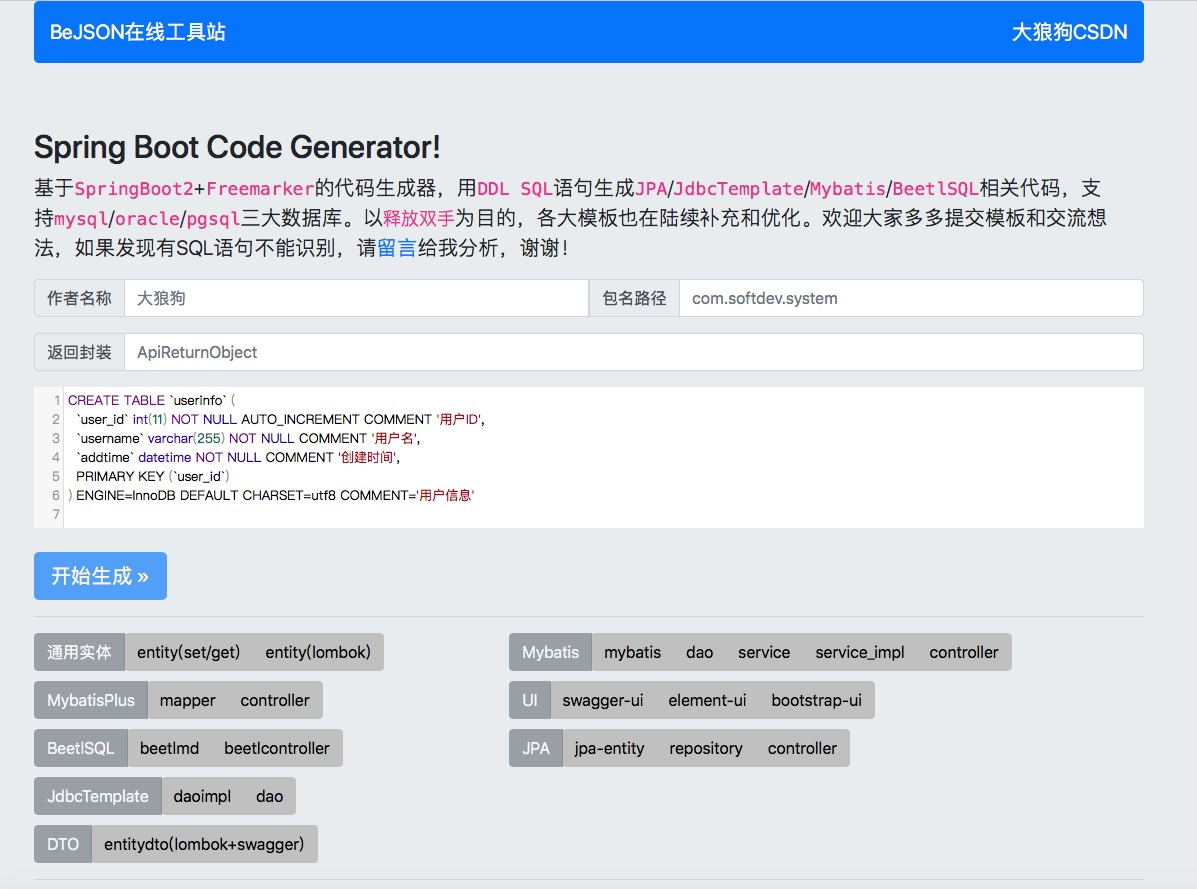
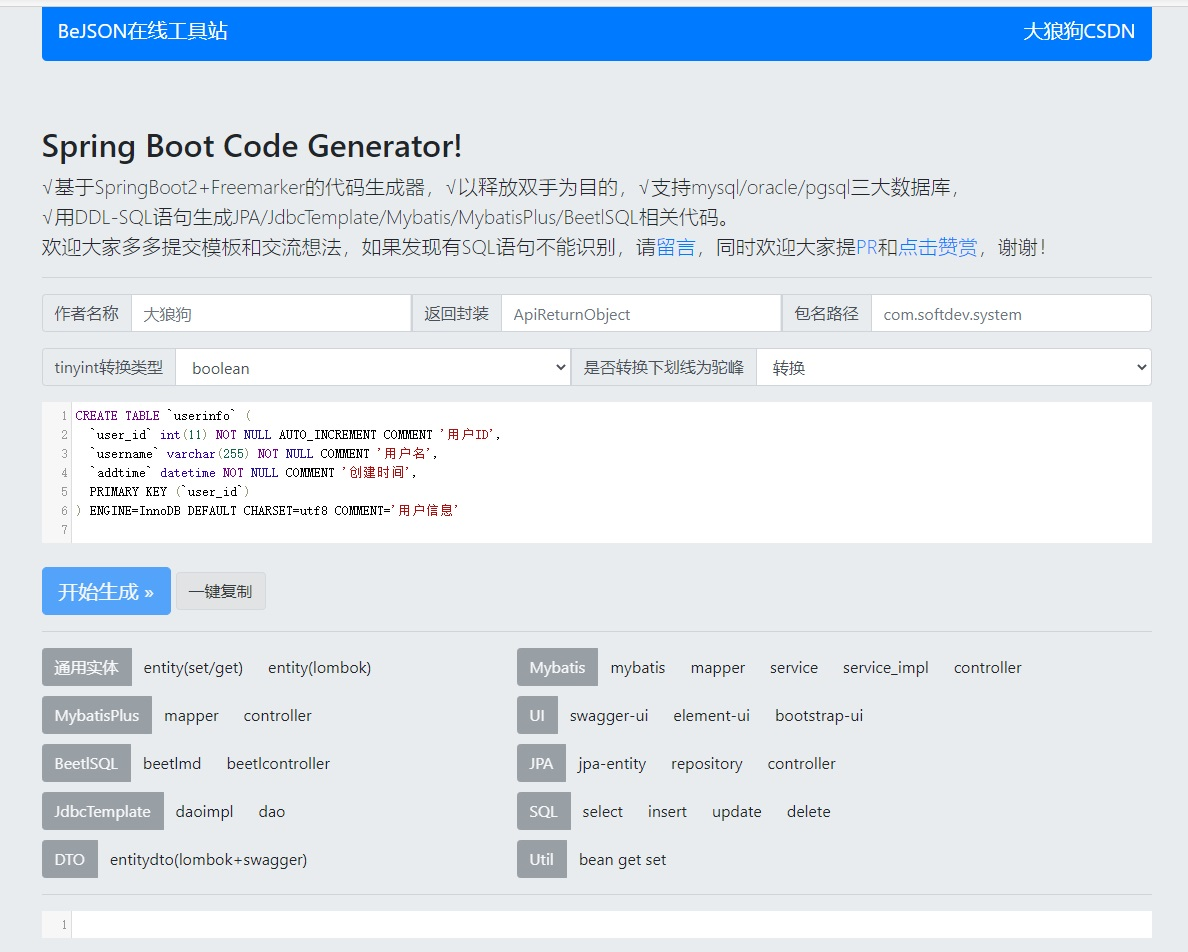
1.添加tinyint类型转换(感谢@lixiliang&@liujiansgit的Suggestion) 2.添加一键复制功能(感谢@gaohanghang的Suggestion) 3.Mybatis的insert增加keyProperty="id"用于返回自增id(感谢@88888888888888888888的Suggestion) 4.优化date类型的支持(感谢@SteveLsf的反馈) 5.其他一些优化.

Changed region(s): [[0.0, 0.1215, 0.9343, 0.9719], [0.4049, 0.6682, 0.8721, 0.9415], [0.0, 0.0, 0.9966, 0.0911]]

diff --git a/generator-web/src/main/java/com/softdev/system/generator/util/TableParseUtil.java b/generator-web/src/main/java/com/softdev/system/generator/util/TableParseUtil.java
@@ -24,7 +24,8 @@ public class TableParseUtil {
      * @param tableSql
      * @return
      */
-    public static ClassInfo processTableIntoClassInfo(String tableSql, boolean isUnderLineToCamelCase) throws IOException {
+    public static ClassInfo processTableIntoClassInfo(String tableSql, boolean isUnderLineToCamelCase,String tinyintTransType)
+            throws IOException {
         if (tableSql==null || tableSql.trim().length()==0) {
             throw new CodeGenerateException("Table structure can not be empty.");
         }
@@ -41,7 +42,9 @@ public class TableParseUtil {
         }
 
         //新增处理create table if not exists members情况
-        if (tableName.contains("if not exists")) tableName=tableName.replaceAll("if not exists","");
+        if (tableName.contains("if not exists")) {
+            tableName=tableName.replaceAll("if not exists","");
+        }
 
         if (tableName.contains("`")) {
             tableName = tableName.substring(tableName.indexOf("`")+1, tableName.lastIndexOf("`"));
@@ -101,20 +104,22 @@ public class TableParseUtil {
         String fieldListTmp = tableSql.substring(tableSql.indexOf("(")+1, tableSql.lastIndexOf(")"));
 
         // 匹配 comment，替换备注里的小逗号, 防止不小心被当成切割符号切割
-        Matcher matcher = Pattern.compile("comment `(.*?)\\`").matcher(fieldListTmp);     // "\\{(.*?)\\}"
-        while(matcher.find()){
+        String commentPattenStr1="comment `(.*?)\\`";
+        Matcher matcher1 = Pattern.compile(commentPattenStr1).matcher(fieldListTmp);
+        while(matcher1.find()){
 
-            String commentTmp = matcher.group();
+            String commentTmp = matcher1.group();
             //2018-9-27 zhengk 不替换，只处理，支持COMMENT评论里面多种注释
             //commentTmp = commentTmp.replaceAll("\\ comment `|\\`", " ");      // "\\{|\\}"
 
             if (commentTmp.contains(",")) {
                 String commentTmpFinal = commentTmp.replaceAll(",", "，");
-                fieldListTmp = fieldListTmp.replace(matcher.group(), commentTmpFinal);
+                fieldListTmp = fieldListTmp.replace(matcher1.group(), commentTmpFinal);
             }
         }
         //2018-10-18 zhengkai 新增支持double(10, 2)等类型中有英文逗号的特殊情况
-        Matcher matcher2 = Pattern.compile("\\`(.*?)\\`").matcher(fieldListTmp);     // "\\{(.*?)\\}"
+        String commentPattenStr2="\\`(.*?)\\`";
+        Matcher matcher2 = Pattern.compile(commentPattenStr2).matcher(fieldListTmp);
         while(matcher2.find()){
             String commentTmp2 = matcher2.group();
             if (commentTmp2.contains(",")) {
@@ -123,7 +128,8 @@ public class TableParseUtil {
             }
         }
         //2018-10-18 zhengkai 新增支持double(10, 2)等类型中有英文逗号的特殊情况
-        Matcher matcher3 = Pattern.compile("\\((.*?)\\)").matcher(fieldListTmp);     // "\\{(.*?)\\}"
+        String commentPattenStr3="\\((.*?)\\)";
+        Matcher matcher3 = Pattern.compile(commentPattenStr3).matcher(fieldListTmp);
         while(matcher3.find()){
             String commentTmp3 = matcher3.group();
             if (commentTmp3.contains(",")) {
@@ -148,7 +154,6 @@ public class TableParseUtil {
                         &&!columnLine.contains("pctincrease")
                         &&!columnLine.contains("buffer_pool")&&!columnLine.contains("tablespace")
                         &&!(columnLine.contains("primary")&&i>3));
-
                 if (specialFlag){
                     //如果是oracle的number(x,x)，可能出现最后分割残留的,x)，这里做排除处理
                     if(columnLine.length()<5) {continue;}
@@ -157,9 +162,8 @@ public class TableParseUtil {
                     columnLine=columnLine.replaceAll("`"," ").replaceAll("\""," ").replaceAll("'","").replaceAll("  "," ").trim();
                     //如果遇到username varchar(65) default '' not null,这种情况，判断第一个空格是否比第一个引号前
                     columnName = columnLine.substring(0, columnLine.indexOf(" "));
-
                     // field Name
-//                    2019-09-08 yj 添加是否下划线转换为驼峰的判断
+                    // 2019-09-08 yj 添加是否下划线转换为驼峰的判断
                     String fieldName;
                     if(isUnderLineToCamelCase){
                         fieldName = StringUtils.lowerCaseFirst(StringUtils.underlineToCamelCase(columnName));
@@ -184,7 +188,7 @@ public class TableParseUtil {
                         fieldClass = Float.class.getSimpleName();
                     } else if (columnLine.contains("double")) {
                         fieldClass = Double.class.getSimpleName();
-                    } else if (columnLine.contains("datetime") || columnLine.contains("timestamp")) {
+                    } else if (columnLine.contains("time") || columnLine.contains("date") || columnLine.contains("datetime") || columnLine.contains("timestamp")) {
                         fieldClass = Date.class.getSimpleName();
                     } else if (columnLine.contains("varchar") || columnLine.contains(" text")|| columnLine.contains("char")
                             || columnLine.contains("clob")||columnLine.contains("blob")||columnLine.contains("json")) {
@@ -221,9 +225,12 @@ public class TableParseUtil {
                         }else{
                             fieldClass = BigDecimal.class.getSimpleName();
                         }
-                    } else if (columnLine.contains("boolean")|| columnLine.contains("tinyint") ) {
+                    } else if (columnLine.contains("boolean")) {
                         //20190910 MOSHOW.K.ZHENG 新增对boolean的处理（感谢@violinxsc的反馈）以及修复tinyint类型字段无法生成boolean类型问题（感谢@hahaYhui的反馈）
                         fieldClass = Boolean.class.getSimpleName();
+                    } else if (columnLine.contains("tinyint") ) {
+                        //20191115 MOSHOW.K.ZHENG 支持对tinyint的特殊处理
+                        fieldClass=tinyintTransType;
                     } else {
                         fieldClass = String.class.getSimpleName();
                     }

diff --git a/generator-web/src/main/java/com/softdev/system/generator/controller/IndexController.java b/generator-web/src/main/java/com/softdev/system/generator/controller/IndexController.java
@@ -2,8 +2,8 @@ package com.softdev.system.generator.controller;
 
 import com.softdev.system.generator.entity.ClassInfo;
 import com.softdev.system.generator.entity.ReturnT;
-import com.softdev.system.generator.util.CodeGeneratorTool;
 import com.softdev.system.generator.util.FreemarkerTool;
+import com.softdev.system.generator.util.TableParseUtil;
 import freemarker.template.TemplateException;
 import lombok.extern.slf4j.Slf4j;
 import org.apache.commons.lang3.StringUtils;
@@ -40,8 +40,9 @@ public class IndexController {
                                                      @RequestParam(required = false, defaultValue = "大狼狗") String authorName,
                                                      @RequestParam(required = false, defaultValue = "com.softdev.system")String packageName,
                                                      @RequestParam(required = false, defaultValue = "ApiReturnUtil")String returnUtil,
-                                                     @RequestParam(required = false, defaultValue = "true")boolean isUnderLineToCamelCase
-    ) {
+                                                     @RequestParam(required = false, defaultValue = "true")boolean isUnderLineToCamelCase,
+                                                     @RequestParam(required = false, defaultValue = "boolean")String tinyintTransType
+                                                     ) {
 
 
         try {
@@ -51,17 +52,17 @@ public class IndexController {
             }
 
             // parse table
-            ClassInfo classInfo = CodeGeneratorTool.processTableIntoClassInfo(tableSql, isUnderLineToCamelCase);
+            ClassInfo classInfo = TableParseUtil.processTableIntoClassInfo(tableSql, isUnderLineToCamelCase, tinyintTransType);
 
             // code genarete
-            Map<String, Object> params = new HashMap<String, Object>();
+            Map<String, Object> params = new HashMap<String, Object>(8);
             params.put("classInfo", classInfo);
             params.put("authorName", authorName);
             params.put("packageName", packageName);
             params.put("returnUtil", returnUtil);
 
             // result
-            Map<String, String> result = new HashMap<String, String>();
+            Map<String, String> result = new HashMap<String, String>(32);
 
             //UI
             result.put("swagger-ui", freemarkerTool.processString("code-generator/ui/swagger-ui.ftl", params));

diff --git a/generator-web/src/main/java/com/softdev/system/generator/util/FreemarkerUtil.java b/generator-web/src/main/java/com/softdev/system/generator/util/FreemarkerUtil.java
@@ -4,8 +4,7 @@ import freemarker.template.Configuration;
 import freemarker.template.Template;
 import freemarker.template.TemplateException;
 import freemarker.template.TemplateExceptionHandler;
-import org.slf4j.Logger;
-import org.slf4j.LoggerFactory;
+import lombok.extern.slf4j.Slf4j;
 
 import java.io.File;
 import java.io.IOException;
@@ -18,8 +17,8 @@ import java.util.Map;
  *
  * @author xuxueli 2018-05-02 19:56:00
  */
+@Slf4j
 public class FreemarkerUtil {
-    private static final Logger logger = LoggerFactory.getLogger(CodeGeneratorTool.class);
 
     /**
      * freemarker config
@@ -40,7 +39,7 @@ public class FreemarkerUtil {
             freemarkerConfig.setLocale(Locale.CHINA);
             freemarkerConfig.setTemplateExceptionHandler(TemplateExceptionHandler.RETHROW_HANDLER);
         } catch (IOException e) {
-            logger.error(e.getMessage(), e);
+            log.error(e.getMessage(), e);
         }
     }
 

diff --git a/README.md b/README.md
@@ -6,36 +6,37 @@
 
 SpringBootCodeGenerator
 ----
-基于SpringBoot2+Freemarker的代码生成器，用DDL SQL语句生成JPA/JdbcTemplate/Mybatis/BeetlSQL相关代码，支持mysql/oracle/pgsql等三大数据库。以释放双手为目的，各大模板也在陆续补充和优化。欢迎大家Issue提交模板和交流想法，也欢迎提交PullRequest！
-<br><br>
+√基于SpringBoot2+Freemarker的代码生成器，√以释放双手为目的，√支持mysql/oracle/pgsql三大数据库，<br>
+√用DDL-SQL语句生成JPA/JdbcTemplate/Mybatis/MybatisPlus/BeetlSQL相关代码。<br><br>
 另外，感谢bejson三叔将他部署在 http://java.bejson.com/generator 上，目前是besjon专供工具(线上版本不一定是最新的，会有延迟，请谅解，谢谢)。
 <br><br>
 <table><tbody>
 <tr><td>访问路径</td> <td>http://127.0.0.1:1234/generator</td></tr>
 <tr><td>在线地址</td> <td>http://java.bejson.com/generator</td></tr>
-<tr><td>CSDN博客</td> <td>http://blog.csdn.net/moshowgame</td></tr>
+<tr><td>CSDN博客</td> <td>http://zhengkai.blog.csdn.net</td></tr>
 <tr><td></td> <td></td></tr>
 <tr><td>更新日期</td> <td>更新内容</td></tr>
+<tr><td>20191115<td>1.添加tinyint类型转换(感谢@lixiliang&@liujiansgit的Suggestion) 2.添加一键复制功能(感谢@gaohanghang的Suggestion) 3.Mybatis的insert增加keyProperty="id"用于返回自增id(感谢@88888888888888888888的Suggestion) 4.优化date类型的支持(感谢@SteveLsf的反馈) 5.其他一些优化. </td></tr> 
 <tr><td>20191015<td>修复jdbcTemplates中insert语句第一个字段丢失的问题。 </td></tr>   
-<tr><td>20190915<td>1.添加对象getset模板 2.添加sql模板 3.启动类添加日志输出，方便项目使用（感谢@gaohanghang 的pull request） </td></tr>   
+<tr><td>20190915<td>1.添加对象getset模板 2.添加sql模板 3.启动类添加日志输出，方便项目使用(感谢@gaohanghang 的pull request) </td></tr>   
 <tr><td>20190910-2<td>优化以及更新Maven依赖，减少打包体积。 </td></tr>   
-<tr><td>20190910-1<td>1.修复mapper接口load方法，但是xml中方法不匹配问题 2.移除mapper中CRUD时的@param 注解，会影响xml的解析（感谢@caojiantao的反馈）。3.优化MyBatis的xml文件对Oracle的支持。（感谢@wylove1992的反馈） 4.新增对boolean的处理（感谢@violinxsc的反馈）以及优化tinyint类型生成boolean类型问题（感谢@hahaYhui的反馈） </td></tr>   
-<tr><td>20190909<td>添加是否下划线转换为驼峰的选择（感谢@youngking28 的pull request）。</td></tr>   
-<tr><td>20190518<td>1.优化注释 2.修改 mybatis模板中 controller注解 3.修改 mybatis模板中 dao文件使用为 mapper文件 4.修改 mybatis模板中 service实现类中的一个 bug 5.修改 index.ftl文件中 mybatis模板的 dao -> mapper（感谢@unqin的pull request）</td></tr>
-<tr><td>20190511<td>优化mybatis模块的dao和xml模板，修改dao接口注解为@Repository，所有dao参数改为包装类，删除update语句最后的UpdateTime = NOW()，修改dao接口文件的方法注释使其更符合javaDoc的标准，修改insert语句增加插入行主键的返回，修改load的方法名为selectByPrimaryKey，修改xml的update语句新增动态if判空，修改xml的insert语句新增动态插入判空，更符合mybatisGenerator标准（感谢@Archer-Wen的贡献 ）。</td></tr>
-<tr><td>20190429<td>新增返回封装工具类设置，优化对oracle注释comment on column的支持（感谢@liukex反馈），优化对普通和特殊storage关键字的判断（感谢@AhHeadFloating的反馈 ）。</td></tr>
-<tr><td>20190211<td>提交gitignore，解决StringUtils.lowerCaseFirst潜在的NPE异常，校验修改为@RequestParam参数校验，lombok之@Data和@Slf4j优化，fix JdbcDAO模板类名显示为中文问题，WebMvcConfig整合MessageConverter，模板代码分类（感谢@liutf和@tfgzs的pull request）。</td></tr>
-<tr><td>20190210<td>实体生成规则切换为包装类型，不再采用基本数据类型，为实体类生成添加显示的默认构造方法（感谢@h2so的pull request）。</td></tr>
-<tr><td>20190106<td>修复处理number/decimal(x,x)类型的逻辑（感谢@arthaschan的反馈），修复JdbcTemplates模板两处错误（感谢@everflourish的反馈）。</td></tr>
-<tr><td>20181212<td>首页UI优化，新增MybatisPlus模块（感谢@三叔同事的建议），修复作者名和包名获取失败问题（感谢@Yanch1994的反馈）。</td></tr>
-<tr><td>20181122<td>优化正则表达式点号的处理，优化处理字段类型，对number类型增加int，long，BigDecimal的区分判断（感谢@lshz0088的指导）。</td></tr>
-<tr><td>20181108<td>修复非字段描述"KEY FK_xxxx (xxxx)"导致生成KEY字段情况（感谢@tornadoorz反馈）。</td></tr>
-<tr><td>20181018<td>支持double(x,x)的类型，以及comment里面包含一些特殊字符的处理（感谢@tanwubo的反馈）。</td></tr>
+<tr><td>20190910-1<td>1.修复mapper接口load方法，但是xml中方法不匹配问题 2.移除mapper中CRUD时的@param 注解，会影响xml的解析(感谢@caojiantao的反馈)。3.优化MyBatis的xml文件对Oracle的支持。(感谢@wylove1992的反馈) 4.新增对boolean的处理(感谢@violinxsc的反馈)以及优化tinyint类型生成boolean类型问题(感谢@hahaYhui的反馈) </td></tr>   
+<tr><td>20190909<td>添加是否下划线转换为驼峰的选择(感谢@youngking28 的pull request)。</td></tr>   
+<tr><td>20190518<td>1.优化注释 2.修改 mybatis模板中 controller注解 3.修改 mybatis模板中 dao文件使用为 mapper文件 4.修改 mybatis模板中 service实现类中的一个 bug 5.修改 index.ftl文件中 mybatis模板的 dao -> mapper(感谢@unqin的pull request)</td></tr>
+<tr><td>20190511<td>优化mybatis模块的dao和xml模板，修改dao接口注解为@Repository，所有dao参数改为包装类，删除update语句最后的UpdateTime = NOW()，修改dao接口文件的方法注释使其更符合javaDoc的标准，修改insert语句增加插入行主键的返回，修改load的方法名为selectByPrimaryKey，修改xml的update语句新增动态if判空，修改xml的insert语句新增动态插入判空，更符合mybatisGenerator标准(感谢@Archer-Wen的贡献 )。</td></tr>
+<tr><td>20190429<td>新增返回封装工具类设置，优化对oracle注释comment on column的支持(感谢@liukex反馈)，优化对普通和特殊storage关键字的判断(感谢@AhHeadFloating的反馈 )。</td></tr>
+<tr><td>20190211<td>提交gitignore，解决StringUtils.lowerCaseFirst潜在的NPE异常，校验修改为@RequestParam参数校验，lombok之@Data和@Slf4j优化，fix JdbcDAO模板类名显示为中文问题，WebMvcConfig整合MessageConverter，模板代码分类(感谢@liutf和@tfgzs的pull request)。</td></tr>
+<tr><td>20190210<td>实体生成规则切换为包装类型，不再采用基本数据类型，为实体类生成添加显示的默认构造方法(感谢@h2so的pull request)。</td></tr>
+<tr><td>20190106<td>修复处理number/decimal(x,x)类型的逻辑(感谢@arthaschan的反馈)，修复JdbcTemplates模板两处错误(感谢@everflourish的反馈)。</td></tr>
+<tr><td>20181212<td>首页UI优化，新增MybatisPlus模块(感谢@三叔同事的建议)，修复作者名和包名获取失败问题(感谢@Yanch1994的反馈)。</td></tr>
+<tr><td>20181122<td>优化正则表达式点号的处理，优化处理字段类型，对number类型增加int，long，BigDecimal的区分判断(感谢@lshz0088的指导)。</td></tr>
+<tr><td>20181108<td>修复非字段描述"KEY FK_xxxx (xxxx)"导致生成KEY字段情况(感谢@tornadoorz反馈)。</td></tr>
+<tr><td>20181018<td>支持double(x,x)的类型，以及comment里面包含一些特殊字符的处理(感谢@tanwubo的反馈)。</td></tr>
 <tr><td>20181010<td>CDN变更，修复CDN不稳定导致网页js报错问题。</td></tr>
 <tr><td>20181003<td>新增element-ui/bootstrap生成。</td></tr>
 <tr><td>20181002<td>修复公共CDN之Layer.js404问题，导致项目无法生成。</td></tr>
-<tr><td>20180927<td>优化COMMENT提取逻辑，支持多种复杂情况的注释（感谢@raodeming的反馈）。</td></tr>
-<tr><td>20180926<td>全新BeetlSQL模块，以及一些小细节优化（感谢@三叔同事的建议）。</td></tr>
+<tr><td>20180927<td>优化COMMENT提取逻辑，支持多种复杂情况的注释(感谢@raodeming的反馈)。</td></tr>
+<tr><td>20180926<td>全新BeetlSQL模块，以及一些小细节优化(感谢@三叔同事的建议)。</td></tr>
 <tr><td>20180925<td>优化SQL表和字段备注的推断，包括pgsql/oralce的comment on column/table情况处理等。</td></tr>
 <tr><td>20180918<td>优化SQL类型推断。优化PrimaryKey判断。修复jpacontroller中Repository拼写错误问题。</td></tr>
 <tr><td>20180917<td>全新首页，静态文件全部采用CDN。新增jdbcTemplate模块。</td></tr>
@@ -61,6 +62,5 @@ SpringBootCodeGenerator
 <img src="./codegenerator1.png">
 <img src="./codegenerator2.png">
 <img src="./codegenerator3.png">
-<img src="./codegenerator4.png">
 <img src="./donate.jpg">
-<table>
+
